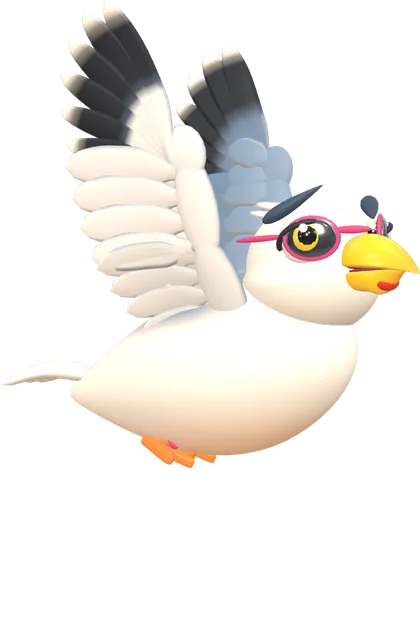
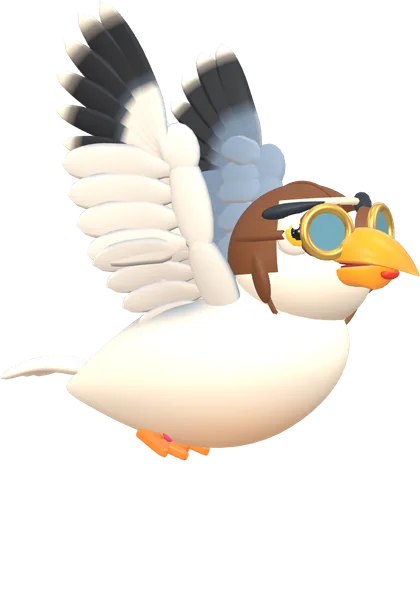
Vorschau: Möwe als Pilot mit Lederhaube und Fliegerbrille

diff --git a/hero/gull.js b/hero/gull.js
@@ -10,7 +10,7 @@ const tmp = new THREE.Vector3();
 
 const CREAM = new THREE.Color(0xf6efe0), PEACH = new THREE.Color(0xeeb98c), SHADE = new THREE.Color(0xd9cdbc);
 const MANTLE = new THREE.Color(0x667c94), MANTLE_SOFT = new THREE.Color(0x8297ae), UNDER = new THREE.Color(0xe6e3dc), INK = new THREE.Color(0x1d2229);
-const BEAK = new THREE.Color(0xffbf1a), BEAK_TIP = new THREE.Color(0xf0861c);
+const BEAK = new THREE.Color(0xff9f1c), BEAK_TIP = new THREE.Color(0xe8701a);
 
 function shaped(geo, fn) {
   const p = geo.attributes.position;
@@ -61,16 +61,15 @@ function slab(points, thick) {
 }
 
 const ARM = 0.42, FORE = 0.4, FOLD_IN = 0.76;
-const DEFAULTS = { yaw: -0.4, pitch: 0, roll: 0, sweep: 0, fold: 1, flapAmp: 0, flapRate: 10, tuck: 0, walk: 0, headYaw: 0, headPitch: 0, headRoll: 0, lid: 0.3, mouth: 0, squash: 0, stare: 0, lookX: 0, lookY: 0, brow: 0, cock: 0.7, smile: 0.62, tongue: 0, shades: 0, shadeTilt: 0, wide: 0, puff: 0, crest: 0, gesture: 0, tailUp: 0, stab: 0.6, blink: 1 };
+const DEFAULTS = { yaw: -0.4, pitch: 0, roll: 0, sweep: 0, fold: 1, flapAmp: 0, flapRate: 10, tuck: 0, walk: 0, headYaw: 0, headPitch: 0, headRoll: 0, lid: 0.56, mouth: 0, squash: 0, stare: 0, lookX: 0.3, lookY: 0, brow: -0.4, cock: 0.5, smile: -0.15, tongue: 0, shades: 0, shadeTilt: 0, wide: 0, puff: 0, crest: 0, gesture: 0, tailUp: 0, stab: 0.6, blink: 1 };
 
 export function buildGull(env, { depth, focal, cx, cy, size: startSize }) {
   let size = startSize;
   const soft = (color, o = {}) => new THREE.MeshPhysicalMaterial({ color, roughness: 0.62, clearcoat: 0.12, clearcoatRoughness: 0.5, envMap: env, envMapIntensity: 0.34, side: THREE.DoubleSide, ...o });
   const skin = soft(0xffffff, { vertexColors: true }), beakMat = soft(0xffffff, { vertexColors: true, roughness: 0.34, clearcoat: 0.55, clearcoatRoughness: 0.3, envMapIntensity: 0.5 });
-  const lidMat = soft(0xece5d6), browMat = soft(0x3a4a5e, { roughness: 0.5 }), lashMat = soft(0x262c35, { roughness: 0.4 }), footMat = soft(0xf07f2e, { roughness: 0.48, clearcoat: 0.25 }), ringMat = soft(0xe8437f, { roughness: 0.3, clearcoat: 0.6 });
+  const lidMat = soft(0xece5d6), browMat = soft(0x262f3b, { roughness: 0.5 }), footMat = soft(0xf07f2e, { roughness: 0.48, clearcoat: 0.25 }), ringMat = soft(0xe8437f, { roughness: 0.3, clearcoat: 0.6 });
   const redMat = soft(0xe03024, { roughness: 0.34, clearcoat: 0.5 }), mouthMat = soft(0x8c2230), tongueMat = soft(0xf07a86);
   const eyeMat = soft(0xfffdf5, { roughness: 0.2, clearcoat: 0.8, clearcoatRoughness: 0.12 });
-  const frameMat = soft(0xe8437f, { roughness: 0.26, clearcoat: 0.8, clearcoatRoughness: 0.2 }), lensMat = soft(0x14171d, { roughness: 0.1, clearcoat: 1, clearcoatRoughness: 0.05, envMapIntensity: 1.5 });
   const irisMat = soft(0xffc62e, { roughness: 0.22, clearcoat: 0.8, clearcoatRoughness: 0.15 }), pupilMat = soft(0x101215, { roughness: 0.14, clearcoat: 0.9, clearcoatRoughness: 0.1 });
   const sparkMat = new THREE.MeshBasicMaterial({ color: 0xffffff, toneMapped: false });
   const mesh = (geo, mat, parent, x = 0, y = 0, z = 0) => { const m = new THREE.Mesh(geo, mat); m.position.set(x, y, z); parent.add(m); return m; };
@@ -108,8 +107,8 @@ export function buildGull(env, { depth, focal, cx, cy, size: startSize }) {
   const toneBeak = (L) => (v, c) => { c.copy(BEAK).lerp(BEAK_TIP, smooth(0.6, 1, v.x / L) * 0.6); };
   mesh(paint(shaped(new THREE.SphereGeometry(1, 28, 18), (v) => {
     const u = (v.x + 1) / 2, y = v.y > 0 ? 0.14 : 0.024;
-    v.set(u * 0.45, v.y * y * Math.pow(1 - u * u * 0.95, 0.62) - 0.062 * u * u * u + 0.014, v.z * 0.125 * Math.pow(1 - u * u * 0.9, 0.58));
-  }), toneBeak(0.45)), beakMat, head, 0.2, -0.01, 0);
+    v.set(u * 0.5, v.y * y * 1.08 * Math.pow(1 - u * u * 0.95, 0.62) - 0.095 * u * u * u + 0.016, v.z * 0.135 * Math.pow(1 - u * u * 0.9, 0.58));
+  }), toneBeak(0.5)), beakMat, head, 0.2, -0.01, 0);
   const roof = mesh(new THREE.SphereGeometry(1, 14, 10), mouthMat, head, 0.34, -0.01, 0);
   roof.scale.set(0.15, 0.012, 0.08);
   const jaw = new THREE.Group();
@@ -117,13 +116,14 @@ export function buildGull(env, { depth, focal, cx, cy, size: startSize }) {
   head.add(jaw);
   mesh(paint(shaped(new THREE.SphereGeometry(1, 24, 16), (v) => {
     const u = (v.x + 1) / 2, dn = v.y < 0 ? 0.088 * (1 + 0.5 * smooth(0.4, 0.68, u) * smooth(0.97, 0.72, u)) : 0.016;
-    v.set(u * 0.37, v.y * dn * Math.pow(1 - u * u * 0.96, 0.62), v.z * 0.1 * Math.pow(1 - u * u * 0.9, 0.58));
-  }), toneBeak(0.37)), beakMat, jaw);
+    v.set(u * 0.4, v.y * dn * Math.pow(1 - u * u * 0.96, 0.62), v.z * 0.108 * Math.pow(1 - u * u * 0.9, 0.58));
+  }), toneBeak(0.4)), beakMat, jaw);
   const floorMouth = mesh(new THREE.SphereGeometry(1, 14, 10), mouthMat, jaw, 0.13, 0.012, 0);
   floorMouth.scale.set(0.13, 0.01, 0.072);
   const tongue = mesh(new THREE.SphereGeometry(1, 14, 10), tongueMat, jaw, 0.13, 0.024, 0);
-  const spot = mesh(new THREE.SphereGeometry(1, 14, 10), redMat, jaw, 0.26, -0.044, 0);
-  spot.scale.set(0.04, 0.036, 0.056);
+  // Der rote Fleck sitzt wie bei echten Möwen vorn am Unterschnabel, nicht am Mundwinkel.
+  const spot = mesh(new THREE.SphereGeometry(1, 14, 10), redMat, jaw, 0.33, -0.03, 0);
+  spot.scale.set(0.026, 0.024, 0.05);
 
   // Die Mundwinkel laufen in die Wange und gehen nach oben: Daher kommt das freche Grinsen.
   const corners = [1, -1].map((side) => {
@@ -134,8 +134,6 @@ export function buildGull(env, { depth, focal, cx, cy, size: startSize }) {
   });
 
   const hemi = new THREE.SphereGeometry(0.113, 22, 10, 0, Math.PI * 2, 0, Math.PI / 2);
-  const lashGeo = new THREE.TorusGeometry(0.113, 0.014, 6, 20, Math.PI);
-  lashGeo.rotateX(Math.PI / 2); lashGeo.rotateY(Math.PI / 2);
   const eyes = [1, -1].map((side) => {
     // Die Augen sitzen nah beieinander und nah am Schnabel. +x ist die Blickrichtung des Auges.
     const g = new THREE.Group();
@@ -145,6 +143,7 @@ export function buildGull(env, { depth, focal, cx, cy, size: startSize }) {
     const yy = new THREE.Vector3().crossVectors(zz, dir);
     g.quaternion.setFromRotationMatrix(new THREE.Matrix4().makeBasis(dir, yy, zz));
     head.add(g);
+    g.scale.setScalar(0.88);
     const ball = mesh(new THREE.SphereGeometry(0.106, 24, 18), eyeMat, g);
     const gaze = new THREE.Group();
     g.add(gaze);
@@ -156,24 +155,33 @@ export function buildGull(env, { depth, focal, cx, cy, size: startSize }) {
     const upper = new THREE.Group();
     lids.add(upper);
     mesh(hemi, lidMat, upper);
-    mesh(lashGeo, lashMat, upper);
     const low = new THREE.Group();
     lids.add(low);
     mesh(hemi, lidMat, low).rotation.x = Math.PI;
     // Die Braue ist außen dick und läuft zum Schnabel hin spitz zu.
-    const browGeo = shaped(new THREE.SphereGeometry(1, 16, 10), (v) => { const k = 0.62 + 0.38 * v.z * side; v.set(v.x * 0.056 * k, v.y * 0.042 * k, v.z * 0.15); });
+    const browGeo = shaped(new THREE.SphereGeometry(1, 16, 10), (v) => { const k = 0.62 + 0.38 * v.z * side; v.set(v.x * 0.064 * k, v.y * 0.05 * k, v.z * 0.16); });
     const brow = mesh(browGeo, browMat, lids, 0.015, 0.127, 0);
     return { g, gaze, ball, pupil, spark, lids, upper, low, brow, side, inv: g.quaternion.clone().invert() };
   });
-  // Die Sonnenbrille: oben auf der Stirn, auf den Augen oder vorn auf dem Schnabel, zum Drüberwegschauen.
+  // Lederhaube und Fliegerbrille wie bei den alten Kampfpiloten. Die Brille sitzt oben auf der Haube, rutscht über die Augen
+  // oder vorn auf den Schnabel, zum Drüberwegschauen.
+  const leder = soft(0x7b4a2b, { roughness: 0.55, clearcoat: 0.25, clearcoatRoughness: 0.45 }), fell = soft(0xf1e3c8, { roughness: 0.95 });
+  const messing = soft(0xc89b45, { metalness: 0.9, roughness: 0.28, clearcoat: 0.3, envMapIntensity: 1.1 });
+  const glasMat = soft(0x355a66, { roughness: 0.06, clearcoat: 1, clearcoatRoughness: 0.04, envMapIntensity: 1.8 });
   const makeShades = (parent) => {
-    const sph = new THREE.SphereGeometry(1, 16, 12);
+    const glasGeo = new THREE.CylinderGeometry(0.094, 0.094, 0.012, 36); glasGeo.rotateZ(Math.PI / 2);
+    const randGeo = new THREE.TorusGeometry(0.1, 0.021, 12, 40); randGeo.rotateY(Math.PI / 2);
+    const kappeGeo = new THREE.CylinderGeometry(0.11, 0.085, 0.075, 32, 1, true); kappeGeo.rotateZ(Math.PI / 2);
     for (const side of [1, -1]) {
-      const f = mesh(sph, frameMat, parent, -0.03, 0, side * 0.2); f.scale.set(0.02, 0.096, 0.122); f.rotation.y = -side * 0.72;
-      const l = mesh(sph, lensMat, parent, -0.021, 0, side * 0.21); l.scale.set(0.018, 0.08, 0.106); l.rotation.y = -side * 0.72;
-      const arm = mesh(sph, frameMat, parent, -0.26, 0.015, side * 0.285); arm.scale.set(0.17, 0.013, 0.013);
+      const g = new THREE.Group(); g.position.set(0, 0, side * 0.155); g.rotation.y = -side * 0.4; parent.add(g);
+      mesh(kappeGeo, leder, g, -0.035, 0, 0);
+      mesh(randGeo, messing, g);
+      mesh(glasGeo, glasMat, g, -0.004, 0, 0);
     }
-    const bridge = mesh(sph, frameMat, parent, 0.006, 0.03, 0); bridge.scale.set(0.016, 0.017, 0.11);
+    const steg = mesh(new THREE.CylinderGeometry(0.014, 0.014, 0.08, 10), leder, parent, -0.03, 0, 0); steg.rotation.x = Math.PI / 2;
+    // Der Riemen läuft hinten um den Kopf.
+    const riemenGeo = new THREE.TorusGeometry(0.318, 0.02, 8, 56, Math.PI * 4 / 3); riemenGeo.rotateX(Math.PI / 2);
+    mesh(riemenGeo, leder, parent, -0.3, 0, 0).rotation.y = -Math.PI / 3;
   };
   const shades = new THREE.Group();
   head.add(shades);
@@ -189,6 +197,29 @@ export function buildGull(env, { depth, focal, cx, cy, size: startSize }) {
     const m = mesh(tuft, skin, crest, -i * 0.024, y, z);
     m.rotation.y = z * 3.2; m.rotation.z = i === 3 ? 0.3 : 0; m.scale.setScalar(k);
   });
+
+  // Die Haube: oben eine geschlossene Kuppel bis über die Brauen, darunter Seiten und Nacken mit Öffnung fürs Gesicht (vorn ist +x),
+  // ein Fellrand ums Gesicht, eine Naht über den Scheitel und zwei Ohrenklappen.
+  crest.visible = false;
+  const haube = new THREE.Group();
+  haube.position.set(-0.015, 0.02, 0);
+  head.add(haube);
+  const R = 0.334, OFF = 1.05, T1 = Math.PI * 0.26, T2 = Math.PI * 0.55;
+  mesh(new THREE.SphereGeometry(R, 40, 12, 0, Math.PI * 2, 0, T1), leder, haube);
+  mesh(new THREE.SphereGeometry(R, 40, 18, Math.PI + OFF, Math.PI * 2 - 2 * OFF, T1, T2 - T1), leder, haube);
+  const aufKugel = (phi, theta, r = R + 0.012) => new THREE.Vector3(-r * Math.cos(phi) * Math.sin(theta), r * Math.cos(theta), r * Math.sin(phi) * Math.sin(theta));
+  const rand = [];
+  for (let i = 0; i <= 16; i++) rand.push(aufKugel(Math.PI - OFF + 2 * OFF * i / 16, T1));
+  mesh(new THREE.TubeGeometry(new THREE.CatmullRomCurve3(rand), 64, 0.017, 8), fell, haube);
+  const naht = new THREE.TorusGeometry(R + 0.004, 0.008, 6, 40, Math.PI * 0.9);
+  mesh(naht, leder, haube).rotation.z = Math.PI * 0.08;
+  for (const side of [1, -1]) {
+    const klappe = mesh(new THREE.SphereGeometry(1, 20, 14), leder, haube, 0.05, -0.07, side * 0.29);
+    klappe.scale.set(0.1, 0.115, 0.034); klappe.rotation.set(side * 0.2, -side * 0.55, 0.1);
+  }
+  // Kinnriemen von Klappe zu Klappe unter dem Schnabel: Dann ist es klar eine Fliegerhaube.
+  const riemen = new THREE.TorusGeometry(0.29, 0.012, 6, 28, Math.PI); riemen.rotateY(Math.PI / 2); riemen.rotateX(Math.PI);
+  mesh(riemen, leder, haube, 0.07, -0.06, 0);
 
   // Die Federn der Flügel: dunkle Spitzen mit weißem Fleck, graue Schwingen mit weißem Saum, darüber kurze Decken. Die Unterseite ist hell.
   const under = (c, s) => { if (s < 0.2) c.lerp(UNDER, smooth(0.2, -0.3, s)); };
@@ -329,9 +360,10 @@ export function buildGull(env, { depth, focal, cx, cy, size: startSize }) {
     crest.rotation.z = -0.1 - crestA;
     // Die Brille gleitet zwischen Stirn, Augen und Schnabel. Beim Kopfschütteln wackelt sie mit.
     const sh = Math.max(0, Math.min(2, p.shades)), a1 = Math.min(1, sh), a2 = Math.max(0, sh - 1);
-    shades.position.set(mix(mix(0.1, 0.262, a1), 0.31, a2), mix(mix(0.3, 0.118, a1), 0.006, a2), 0);
+    // Die Fliegerbrille liegt oben auf der Haube, rutscht über die Augen oder vorn auf den Schnabel.
+    shades.position.set(mix(mix(0.23, 0.33, a1), 0.35, a2), mix(mix(0.31, 0.122, a1), 0.006, a2), 0);
     shadeV += ((p.headYaw - shadeY) * 220 - shadeV * 14) * h; shadeY += shadeV * h;
-    shades.rotation.set((p.headYaw - shadeY) * 0.4 + p.shadeTilt, 0, mix(mix(0.95, 0, a1), -0.14, a2));
+    shades.rotation.set((p.headYaw - shadeY) * 0.4 + p.shadeTilt, 0, mix(mix(0.5, 0, a1), -0.14, a2));
     shades.scale.z = mix(0.6, 1, a1);
 
     const nearWing = Math.abs(p.yaw) < Math.PI / 2 ? 1 : -1;

diff --git a/hero/plane.js b/hero/plane.js
@@ -1,4 +1,4 @@
-// Der Werbeflieger: ein kleiner Doppeldecker, unsere Möwe sitzt mit Brille und Schal am Steuer.
+// Der Werbeflieger: ein kleiner Doppeldecker, unsere Möwe sitzt mit Lederhaube, Fliegerbrille und Schal am Steuer.
 // Alles wird beim Laden im Browser gezeichnet. Oben im Bild liegt das Banner, darunter zwei Phasen des Flugzeugs: Propeller und Schal bewegen sich.
 const INK = '#00343a', CREAM = '#fff4df', PINK = '#e8437f', PLUM = '#b5235f', SUN = '#ffc91f', SEA = '#0a7fa8', DARK = '#1d2229';
 
@@ -88,22 +88,34 @@ function plane(x, frame) {
   scarf(0, 3); x.fillStyle = CREAM; x.fill();
   x.restore();
 
-  // Die Pilotin: dieselbe Möwe wie auf der Terrasse. Kopf, Tolle, großer Schnabel, pinke Brille.
+  // Der Pilot: dieselbe Möwe wie auf der Terrasse. Lederhaube mit Ohrenklappe, Fliegerbrille auf der Stirn, Hakenschnabel, kerniger Blick.
   const face = x.createRadialGradient(278, 44, 4, 288, 56, 34); face.addColorStop(0, '#ffffff'); face.addColorStop(1, '#e6dccb');
   x.fillStyle = '#efe7d6'; x.beginPath(); x.ellipse(298, 80, 26, 16, 0, 0, Math.PI * 2); x.fill();
   x.fillStyle = face; x.beginPath(); x.arc(288, 54, 30, 0, Math.PI * 2); x.fill();
-  x.fillStyle = '#f3ecdd';
-  for (const [tx, ty, a] of [[300, 24, 0.5], [290, 20, 0.12], [278, 21, -0.28]]) { x.save(); x.translate(tx, ty); x.rotate(a); x.beginPath(); x.ellipse(5, -10, 6, 15, 0.1, 0, Math.PI * 2); x.fill(); x.restore(); }
-  x.fillStyle = '#ffbf1a'; x.beginPath(); x.moveTo(266, 44); x.bezierCurveTo(240, 42, 214, 52, 212, 66); x.bezierCurveTo(226, 64, 252, 68, 268, 68); x.closePath(); x.fill();
-  x.fillStyle = '#f0861c'; x.beginPath(); x.moveTo(268, 66); x.bezierCurveTo(250, 68, 232, 68, 222, 70); x.bezierCurveTo(234, 80, 258, 80, 270, 74); x.closePath(); x.fill();
-  x.fillStyle = '#e03024'; x.beginPath(); x.arc(238, 72, 4, 0, Math.PI * 2); x.fill();
-  // Frech grinsender Mundwinkel
-  x.strokeStyle = '#b5661a'; x.lineWidth = 2.4; x.lineCap = 'round'; x.beginPath(); x.moveTo(216, 67); x.quadraticCurveTo(250, 68, 276, 60); x.stroke();
-  x.strokeStyle = PINK; x.lineWidth = 5; x.beginPath(); x.moveTo(284, 40); x.lineTo(316, 36); x.stroke();
-  x.fillStyle = PINK; x.beginPath(); x.ellipse(270, 42, 17, 13.5, -0.1, 0, Math.PI * 2); x.fill();
-  x.fillStyle = '#14171d'; x.beginPath(); x.ellipse(270, 42, 13.5, 10.5, -0.1, 0, Math.PI * 2); x.fill();
-  x.fillStyle = 'rgba(255, 255, 255, .85)'; x.beginPath(); x.ellipse(265, 38, 4.2, 2.4, -0.5, 0, Math.PI * 2); x.fill();
-  x.strokeStyle = '#3a4a5e'; x.lineWidth = 5.5; x.beginPath(); x.moveTo(256, 25); x.quadraticCurveTo(272, 15, 288, 22); x.stroke();
+  // Hakenschnabel in Orange, der rote Fleck vorn am Unterschnabel
+  x.fillStyle = '#ff9f1c'; x.beginPath(); x.moveTo(266, 44); x.bezierCurveTo(240, 42, 212, 50, 208, 68); x.bezierCurveTo(214, 64, 250, 68, 268, 68); x.closePath(); x.fill();
+  x.fillStyle = '#e8701a'; x.beginPath(); x.moveTo(268, 66); x.bezierCurveTo(250, 68, 232, 68, 222, 70); x.bezierCurveTo(234, 80, 258, 80, 270, 74); x.closePath(); x.fill();
+  x.fillStyle = '#e03024'; x.beginPath(); x.arc(228, 71, 3, 0, Math.PI * 2); x.fill();
+  // Schiefer Mundwinkel
+  x.strokeStyle = '#a95a16'; x.lineWidth = 2.4; x.lineCap = 'round'; x.beginPath(); x.moveTo(216, 67); x.quadraticCurveTo(250, 68, 276, 60); x.stroke();
+  // Auge mit schwerem Lid, darüber die Braue schräg zum Schnabel
+  x.fillStyle = '#fffdf5'; x.beginPath(); x.ellipse(271, 46, 9.5, 8.5, 0, 0, Math.PI * 2); x.fill();
+  x.fillStyle = '#ffc62e'; x.beginPath(); x.arc(267, 47, 5, 0, Math.PI * 2); x.fill();
+  x.fillStyle = '#101215'; x.beginPath(); x.arc(266, 47, 2.6, 0, Math.PI * 2); x.fill();
+  x.fillStyle = '#ece5d6'; x.beginPath(); x.ellipse(271, 42, 10.5, 6.5, 0, Math.PI, Math.PI * 2); x.fill();
+  x.strokeStyle = '#262f3b'; x.lineWidth = 5.5; x.beginPath(); x.moveTo(284, 34); x.lineTo(259, 40); x.stroke();
+  // Lederhaube über Kopf und Nacken, Ohrenklappe, Fellrand an der Stirn
+  x.fillStyle = '#7b4a2b'; x.beginPath(); x.moveTo(262, 36); x.bezierCurveTo(266, 12, 312, 8, 320, 42); x.lineTo(320, 72); x.bezierCurveTo(316, 86, 300, 86, 296, 76); x.lineTo(294, 52); x.bezierCurveTo(286, 34, 272, 32, 262, 36); x.closePath(); x.fill();
+  x.fillStyle = '#6a3e23'; x.beginPath(); x.ellipse(303, 66, 9, 13, 0.15, 0, Math.PI * 2); x.fill();
+  x.strokeStyle = '#f1e3c8'; x.lineWidth = 5; x.beginPath(); x.moveTo(262, 37); x.bezierCurveTo(272, 31, 286, 33, 295, 48); x.stroke();
+  x.strokeStyle = '#5a341d'; x.lineWidth = 1.6; x.beginPath(); x.moveTo(288, 13); x.bezierCurveTo(304, 16, 316, 28, 319, 46); x.stroke();
+  // Fliegerbrille auf der Stirn: zwei Messingringe mit Glas, Riemen nach hinten
+  x.strokeStyle = '#5a341d'; x.lineWidth = 5; x.beginPath(); x.moveTo(296, 24); x.lineTo(320, 34); x.stroke();
+  for (const [gx, gy] of [[270, 26], [290, 21]]) {
+    x.fillStyle = '#6f9aa6'; x.beginPath(); x.arc(gx, gy, 8.5, 0, Math.PI * 2); x.fill();
+    x.fillStyle = 'rgba(255, 255, 255, .7)'; x.beginPath(); x.ellipse(gx - 3, gy - 3, 3, 1.8, -0.6, 0, Math.PI * 2); x.fill();
+    x.strokeStyle = '#c89b45'; x.lineWidth = 3.6; x.beginPath(); x.arc(gx, gy, 9.5, 0, Math.PI * 2); x.stroke();
+  }
 
   // Cockpit: Rand über dem Hals, davor eine kleine Scheibe
   x.fillStyle = '#7d4a12'; x.beginPath(); x.ellipse(290, 86, 46, 8, 0.05, 0, Math.PI * 2); x.fill();

diff --git a/site/site.css b/site/site.css
@@ -81,16 +81,16 @@ body { margin: 0; background: var(--creme); overflow-x: clip; }
 .szene-unten { bottom: 0; left: calc(var(--ul, 0) * 100%); width: calc(var(--uw, 1) * 100%); -webkit-mask: linear-gradient(transparent, #000 24%); mask: linear-gradient(transparent, #000 24%); }
 /* Die Möwe aus dem Hero, freigestellt: drei Haltungen im Stand, drei Flügelstellungen im Flug.
    Ohne Skript steht sie mit den Füßen auf einer Stelle des unteren Szenenbilds (--mx, --my); mit Skript fliegt sie zwischen ihren Plätzen. */
-.kapitel > .moewe { position: absolute; z-index: 2; max-width: none; margin: 0; width: var(--moewe-b, 150px); aspect-ratio: 849 / 616; left: calc((var(--ul, 0) + var(--mx, .1) * var(--uw, 1)) * 100% - .557 * var(--moewe-b, 150px)); bottom: calc(var(--uw, 1) * (100cqw + 2 * var(--rand)) * 750 / 1740 * (1 - var(--my, .5)) - .005 * var(--moewe-b, 150px)); cursor: pointer; -webkit-tap-highlight-color: transparent; }
+.kapitel > .moewe { position: absolute; z-index: 2; max-width: none; margin: 0; width: var(--moewe-b, 150px); aspect-ratio: 864 / 640; left: calc((var(--ul, 0) + var(--mx, .1) * var(--uw, 1)) * 100% - .547 * var(--moewe-b, 150px)); bottom: calc(var(--uw, 1) * (100cqw + 2 * var(--rand)) * 750 / 1740 * (1 - var(--my, .5)) - .005 * var(--moewe-b, 150px)); cursor: pointer; -webkit-tap-highlight-color: transparent; }
 .kapitel > .moewe.frei { left: 0; top: 0; bottom: auto; }
-.moewe-dreh { position: absolute; inset: 0; transform-origin: 55.7% 100%; transition: scale 200ms var(--out); }
+.moewe-dreh { position: absolute; inset: 0; transform-origin: 54.7% 100%; transition: scale 200ms var(--out); }
 .moewe.links .moewe-dreh { scale: -1 1; }
 .moewe img { position: absolute; opacity: 0; filter: drop-shadow(0 6px 5px rgba(80, 30, 0, .28)); }
 .moewe-stand img { inset: 0; width: 100%; height: 100%; }
 .moewe-stand img:first-child, .moewe[data-lage='frech'] .moewe-stand img:nth-child(2), .moewe[data-lage='schreck'] .moewe-stand img:nth-child(3) { opacity: 1; }
 .moewe[data-lage='frech'] .moewe-stand img:first-child, .moewe[data-lage='schreck'] .moewe-stand img:first-child { opacity: 0; }
-.moewe-stand { position: absolute; inset: 0; transform-origin: 55.7% 100%; animation: atmen 3.4s ease-in-out infinite alternate; }
-.moewe-flug { position: absolute; left: 50%; top: 52%; width: 91.4%; aspect-ratio: 776 / 1144; translate: -50% -50%; visibility: hidden; }
+.moewe-stand { position: absolute; inset: 0; transform-origin: 54.7% 100%; animation: atmen 3.4s ease-in-out infinite alternate; }
+.moewe-flug { position: absolute; left: 50%; top: 52%; width: 91.3%; aspect-ratio: 789 / 1144; translate: -50% -50%; visibility: hidden; }
 .moewe-flug img { inset: 0; width: 100%; height: 100%; }
 /* Im Flug: Standbilder weg, Flügelschlag oben, Mitte, unten, Mitte. */
 .moewe.fliegt .moewe-stand { visibility: hidden; }

diff --git a/baukasten/index.html b/baukasten/index.html
@@ -135,7 +135,7 @@
         <a class="nebenweg" href="https://www.mymallorcasummer.com/jetzt-bewerben/" target="_blank" rel="noopener noreferrer"><span data-key>Lieber per Formular</span><i class="wave"></i></a>
       </div>
     </div>
-    <span class="moewe" aria-hidden="true"><span class="moewe-dreh"><span class="moewe-stand"><img src="../site/moewe/moewe-ruhe.webp" width="420" height="305" alt="" loading="lazy" decoding="async"><img src="../site/moewe/moewe-frech.webp" width="420" height="305" alt="" loading="lazy" decoding="async"><img src="../site/moewe/moewe-schreck.webp" width="420" height="305" alt="" loading="lazy" decoding="async"></span><span class="moewe-flug"><img src="../site/moewe/moewe-flug-1.webp" width="420" height="619" alt="" loading="lazy" decoding="async"><img src="../site/moewe/moewe-flug-2.webp" width="420" height="619" alt="" loading="lazy" decoding="async"><img src="../site/moewe/moewe-flug-3.webp" width="420" height="619" alt="" loading="lazy" decoding="async"></span></span></span>
+    <span class="moewe" aria-hidden="true"><span class="moewe-dreh"><span class="moewe-stand"><img src="../site/moewe/moewe-ruhe.webp" width="420" height="311" alt="" loading="lazy" decoding="async"><img src="../site/moewe/moewe-frech.webp" width="420" height="311" alt="" loading="lazy" decoding="async"><img src="../site/moewe/moewe-schreck.webp" width="420" height="311" alt="" loading="lazy" decoding="async"></span><span class="moewe-flug"><img src="../site/moewe/moewe-flug-1.webp" width="420" height="609" alt="" loading="lazy" decoding="async"><img src="../site/moewe/moewe-flug-2.webp" width="420" height="609" alt="" loading="lazy" decoding="async"><img src="../site/moewe/moewe-flug-3.webp" width="420" height="609" alt="" loading="lazy" decoding="async"></span></span></span>
     <div class="spielball" aria-hidden="true"><span class="spielball-muster"></span></div>
     <span class="spielball-schatten" aria-hidden="true"></span>
   </section>

diff --git a/hero/index.html b/hero/index.html
@@ -122,7 +122,7 @@
         <a class="nebenweg" href="https://www.mymallorcasummer.com/jetzt-bewerben/" target="_blank" rel="noopener noreferrer"><span data-key>Lieber per Formular</span><i class="wave"></i></a>
       </div>
   </div>
-  <span class="moewe" aria-hidden="true"><span class="moewe-dreh"><span class="moewe-stand"><img src="../site/moewe/moewe-ruhe.webp" width="420" height="305" alt="" loading="lazy" decoding="async"><img src="../site/moewe/moewe-frech.webp" width="420" height="305" alt="" loading="lazy" decoding="async"><img src="../site/moewe/moewe-schreck.webp" width="420" height="305" alt="" loading="lazy" decoding="async"></span><span class="moewe-flug"><img src="../site/moewe/moewe-flug-1.webp" width="420" height="619" alt="" loading="lazy" decoding="async"><img src="../site/moewe/moewe-flug-2.webp" width="420" height="619" alt="" loading="lazy" decoding="async"><img src="../site/moewe/moewe-flug-3.webp" width="420" height="619" alt="" loading="lazy" decoding="async"></span></span></span>
+  <span class="moewe" aria-hidden="true"><span class="moewe-dreh"><span class="moewe-stand"><img src="../site/moewe/moewe-ruhe.webp" width="420" height="311" alt="" loading="lazy" decoding="async"><img src="../site/moewe/moewe-frech.webp" width="420" height="311" alt="" loading="lazy" decoding="async"><img src="../site/moewe/moewe-schreck.webp" width="420" height="311" alt="" loading="lazy" decoding="async"></span><span class="moewe-flug"><img src="../site/moewe/moewe-flug-1.webp" width="420" height="609" alt="" loading="lazy" decoding="async"><img src="../site/moewe/moewe-flug-2.webp" width="420" height="609" alt="" loading="lazy" decoding="async"><img src="../site/moewe/moewe-flug-3.webp" width="420" height="609" alt="" loading="lazy" decoding="async"></span></span></span>
   <div class="spielball" aria-hidden="true"><span class="spielball-muster"></span></div>
   <span class="spielball-schatten" aria-hidden="true"></span>
 </section>

diff --git a/site/site.js b/site/site.js
@@ -288,8 +288,8 @@
       };
       const sitzPunkt = (i) => ({ x: unten.x + sitze[i][0] * unten.w, y: unten.y + sitze[i][1] * unten.h });
       const sichtbar = (i) => { const q = sitzPunkt(i); return q.x > W * 0.08 && q.x < W * 0.92; };
-      // Die Füße stehen im Bild bei 55,7 % der Breite, ganz unten.
-      const stellen = () => { const w = moewe.offsetWidth, h = moewe.offsetHeight; moewe.style.transform = `translate(${(M.x - 0.557 * w).toFixed(1)}px, ${(M.y - 0.995 * h).toFixed(1)}px)`; };
+      // Die Füße stehen im Bild bei 54,7 % der Breite, ganz unten.
+      const stellen = () => { const w = moewe.offsetWidth, h = moewe.offsetHeight; moewe.style.transform = `translate(${(M.x - 0.547 * w).toFixed(1)}px, ${(M.y - 0.995 * h).toFixed(1)}px)`; };
       const setzen = (i) => { platz = i; const q = sitzPunkt(i); M.x = q.x; M.y = q.y; moewe.classList.toggle('links', sitze[i][0] > 0.55); stellen(); };
       const fliegen = (ziel) => {
         if (!moewe || fliegt || ziel === platz || reduced.matches) return;
@@ -323,7 +323,7 @@
       // Mit Skript übernimmt sie ihren Platz selbst: der sichtbare Platz, der ihrer Startstelle am nächsten liegt.
       if (moewe && sitze.length && !reduced.matches) {
         mass();
-        const r = moewe.getBoundingClientRect(), f = feld.getBoundingClientRect(), fussX = r.left - f.left + 0.557 * r.width;
+        const r = moewe.getBoundingClientRect(), f = feld.getBoundingClientRect(), fussX = r.left - f.left + 0.547 * r.width;
         let best = -1, d = Infinity;
         sitze.forEach((_, i) => { if (sichtbar(i)) { const q = sitzPunkt(i), e = Math.abs(q.x - fussX); if (e < d) { d = e; best = i; } } });
         if (best >= 0) { moewe.classList.add('frei'); setzen(best); }
